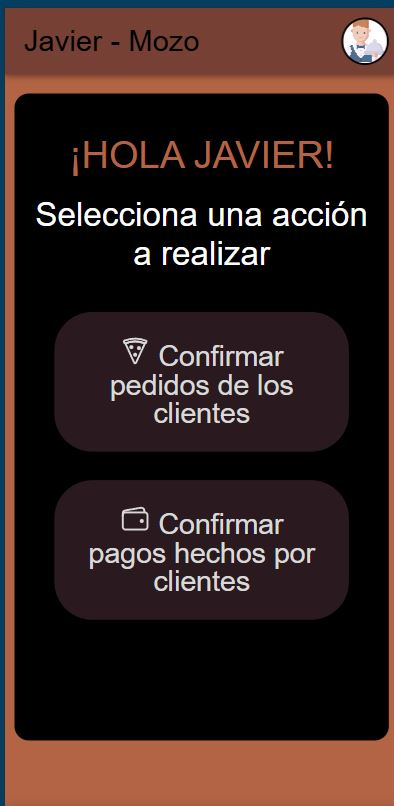
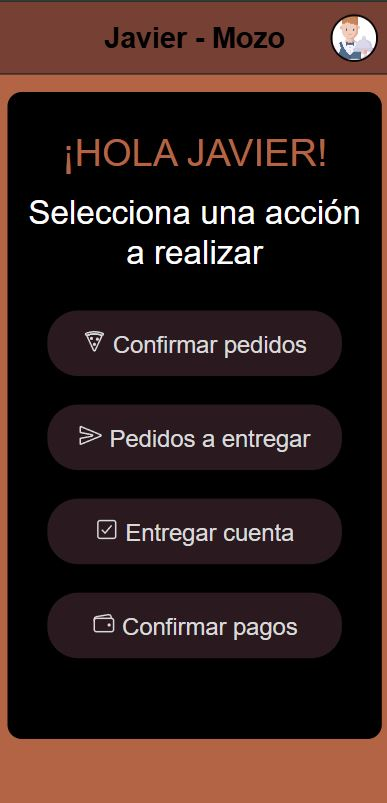
correcciones

diff --git a/src/app/componentes/home/home.component.html b/src/app/componentes/home/home.component.html
@@ -74,29 +74,28 @@
         class="botonPrincipal"
         (click)="navegarSiguienteAccionMozo('pedidos')"
       >
-        <ion-icon name="pizza-outline" size="large"></ion-icon>
-        Confirmar pedidos de los clientes
+        <ion-icon name="pizza-outline" ></ion-icon>
+        Confirmar pedidos
       </button>
       <button
         class="botonPrincipal"
         (click)="navegarSiguienteAccionMozo('pendientes')"
       >
-        <ion-icon name="send-outline" size="large"></ion-icon>
-        Pedidos pendientes por entregar
+        <ion-icon name="send-outline" ></ion-icon> Pedidos a entregar
       </button>
       <button
         class="botonPrincipal"
         (click)="navegarSiguienteAccionMozo('entregarCuenta')"
       >
-        <ion-icon name="checkbox-outline" size="large"></ion-icon>
+        <ion-icon name="checkbox-outline" ></ion-icon>
         Entregar cuenta
       </button>
       <button
         class="botonPrincipal"
         (click)="navegarSiguienteAccionMozo('pagos')"
       >
-        <ion-icon name="wallet-outline" size="large"></ion-icon>
-        Confirmar pagos hechos por clientes
+        <ion-icon name="wallet-outline" ></ion-icon>
+        Confirmar pagos 
       </button>
     </div>
   </div>

diff --git a/src/app/componentes/alta/alta-usuarios/alta-usuarios.component.html b/src/app/componentes/alta/alta-usuarios/alta-usuarios.component.html
@@ -201,10 +201,10 @@
       Ingresarás como anónimo pero es necesario que elijas una foto de perfil y
       un nombre para diferenciarte de otros clientes
     </h2>
-
+    <!-- *ngIf="tipoTraido !== 'Anónimo' && tipoTraido !== 'Cliente'" -->
     <div
       id="buttons"
-      *ngIf="tipoTraido !== 'Anónimo' && tipoTraido !== 'Cliente'"
+      *ngIf="tipoTraido !== 'Anónimo'"
     >
       <ion-fab-button class="iconos" (click)="volverLogin()">
         <!-- Volver al inicio -->
@@ -227,7 +227,7 @@
     </div>
     <div
       class="listaColumna"
-      *ngIf="tipoTraido === 'Anónimo' || tipoTraido === 'Cliente'"
+      *ngIf="tipoTraido === 'Anónimo'"
     >
       <button
         class="botonPrincipal"
@@ -242,10 +242,8 @@
         [disabled]="isSubmitting"
       >
         <ion-icon class="icon" name="save-outline"></ion-icon>Guardar
-        <!-- Dar de alta -->
       </button>
       <button class="botonPrincipal" (click)="volverLogin()">
-        <!-- Volver al inicio -->
         <ion-icon class="icon" name="arrow-back-outline"></ion-icon> Volver
       </button>
     </div>

diff --git a/src/app/componentes/detalle-de-cuenta/detalle-de-cuenta.component.ts b/src/app/componentes/detalle-de-cuenta/detalle-de-cuenta.component.ts
@@ -152,7 +152,9 @@ export class DetalleDeCuentaComponent implements OnInit {
   }
 
   desplieguePagar() {
+    this.spinner.show();
     if (this.mesaActual) {
+      // this.datosService.eliminarDato()ELIMINAR CHAT
       this.mesaActual.idCliente = '';
       this.mesaActual.estado = 'Disponible';
       this.datosService.modificarDato(
@@ -162,7 +164,7 @@ export class DetalleDeCuentaComponent implements OnInit {
       );
     }
     if (this.VentaPago) {
-      this.VentaPago.pago = false;
+      this.VentaPago.pago = true;
       this.datosService.modificarDato(
         this.VentaPago?.id,
         'Ventas',
@@ -177,7 +179,9 @@ export class DetalleDeCuentaComponent implements OnInit {
         this.tiketDescuento
       );
     }
+    this.spinner.hide();
     this.Router.navigate(['/mesa', this.mesaActual!.numero]);
+    
   }
   seleccionarMetodoPago(metodo: string): void {
     this.metodoPagoSeleccionado = metodo;

diff --git a/src/global.scss b/src/global.scss
@@ -56,12 +56,12 @@
   background-color: var(--color-principal);
   color: var(--color-letra);
   border: none;
-  font-size: 30px;
+  font-size: 25px;
   margin: 10px;
   cursor: pointer;
   transition: background-color 0.3s ease, transform 0.2s;
-  border-radius: 40px;
-  padding: 25px 35px;
+  border-radius: 32.5px;
+  padding: 20px 20px;
   width: 75vw;
 
   &:hover {
@@ -74,6 +74,9 @@
     cursor: not-allowed;
     box-shadow: none; /* Elimina cualquier sombra */
     transform: scale(1); /* Elimina el efecto de hover (transformación) */
+  }
+  ion-icon{
+    font-size: 25px;
   }
 }
 

diff --git a/src/app/componentes/home/home.component.ts b/src/app/componentes/home/home.component.ts
@@ -135,6 +135,7 @@ export class HomeComponent implements OnInit {
     } else {
       this.router.navigate(['/asignarMesas']);
     }
+    
   }
 
   // MOZO
